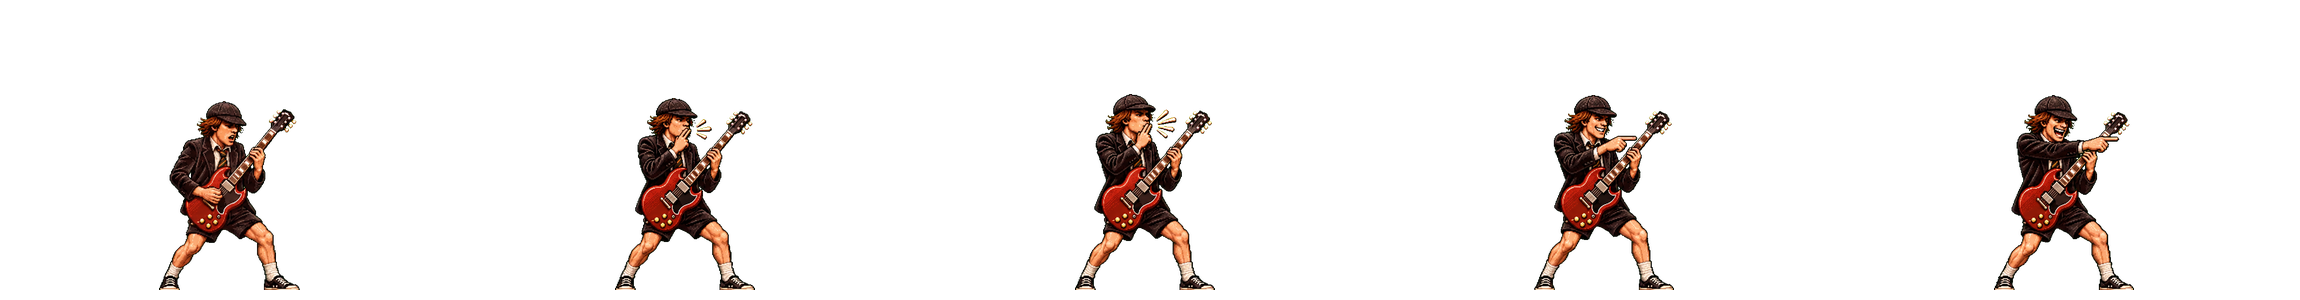
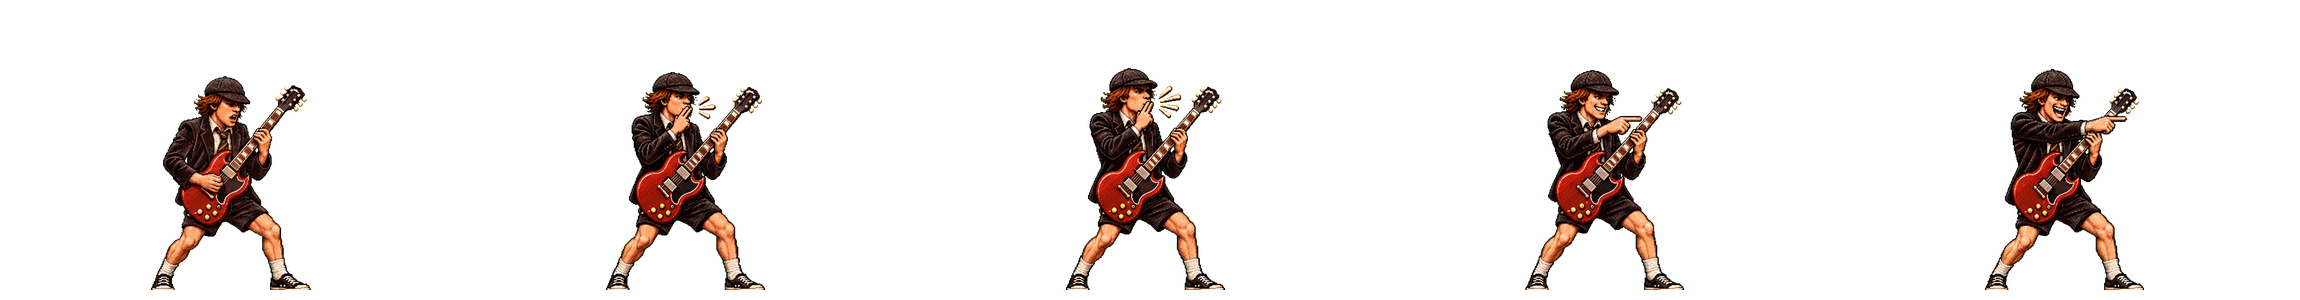
fix: Angus com o mesmo tamanho em todos os golpes e especiais

diff --git a/game.js b/game.js
@@ -608,19 +608,19 @@ function angusCpu(me, op, scene) {
 // ---------------------------------------------------------------------------------------------
 const CHARS = {};
 CHARS.eddie = {
-  name: 'EDDIE', dir: 'eddie', hp: 950, walkF: 3.2, walkB: 2.6, superStage: 'assets/stages/super-eddie.jpg?v=fa89671', // superStage: cena que toma o fundo no super e na vitória
+  name: 'EDDIE', dir: 'eddie', hp: 950, walkF: 3.2, walkB: 2.6, superStage: 'assets/stages/super-eddie.jpg?v=9658bb2', // superStage: cena que toma o fundo no super e na vitória
   anims: EDDIE_ANIMS, moves: EDDIE_MOVES, powers: EDDIE_POWERS, specials: EDDIE_SPECIALS, cpu: eddieCpu,
   jumpkick: JUMPKICK, bigTitle: '5150', blurb: 'Brown Sound',
   stage: 'eddie', // palco da casa (ver STAGES)
 };
 CHARS.slash = {
-  name: 'SLASH', dir: 'slash', hp: 1000, walkF: 3.0, walkB: 2.5, superStage: 'assets/stages/super-slash.jpg?v=fa89671', // superStage: cena que toma o fundo no super e na vitória
+  name: 'SLASH', dir: 'slash', hp: 1000, walkF: 3.0, walkB: 2.5, superStage: 'assets/stages/super-slash.jpg?v=9658bb2', // superStage: cena que toma o fundo no super e na vitória
   anims: SLASH_ANIMS, moves: SLASH_MOVES, powers: SLASH_POWERS, specials: SLASH_SPECIALS, cpu: slashCpu,
   jumpkick: JUMPKICK, bigTitle: 'APPETITE', bigSize: 150, blurb: 'Top Hat',
   stage: 'slash',
 };
 CHARS.zakk = {
-  name: 'ZAKK', dir: 'zakk', hp: 1100, walkF: 2.7, walkB: 2.25, superStage: 'assets/stages/super-zakk.jpg?v=fa89671', // superStage: cena que toma o fundo no super e na vitória
+  name: 'ZAKK', dir: 'zakk', hp: 1100, walkF: 2.7, walkB: 2.25, superStage: 'assets/stages/super-zakk.jpg?v=9658bb2', // superStage: cena que toma o fundo no super e na vitória
   anims: ZAKK_ANIMS, moves: ZAKK_MOVES, powers: ZAKK_POWERS, specials: ZAKK_SPECIALS, cpu: zakkCpu,
   jumpkick: JUMPKICK, bigTitle: 'NO MORE TEARS', bigSize: 95, blurb: 'Black Label',
   stage: 'zakk', vicRate: 28, vicFrames: [0, 1, 2, 4, 5, 6, 7, 8], // sem o quadro 3 (pé no amplificador) e o 9 (braços cruzados)
@@ -628,7 +628,7 @@ CHARS.zakk = {
   // a vitória do Zakk é uma sequência de poses (grito, cerveja, chifrinhos): ~0,5 s cada
 };
 CHARS.vai = {
-  name: 'VAI', dir: 'vai', hp: 900, walkF: 3.5, walkB: 2.9, superStage: 'assets/stages/super-vai.jpg?v=fa89671', // superStage: cena que toma o fundo no super e na vitória
+  name: 'VAI', dir: 'vai', hp: 900, walkF: 3.5, walkB: 2.9, superStage: 'assets/stages/super-vai.jpg?v=9658bb2', // superStage: cena que toma o fundo no super e na vitória
   anims: VAI_ANIMS, moves: VAI_MOVES, powers: VAI_POWERS, specials: VAI_SPECIALS, cpu: vaiCpu,
   jumpkick: JUMPKICK, bigTitle: 'FOR THE LOVE OF GOD', bigSize: 78, blurb: 'Ibanez JEM',
   stage: 'stadium', // palco da casa ainda não existe
@@ -637,7 +637,7 @@ CHARS.vai = {
 // o Angus está em stand by (folhas incompletas, nada recortado em assets/angus): só entra no elenco quando ANGUS_READY for true
 const ANGUS_READY = true;
 if (ANGUS_READY) CHARS.angus = {
-  name: 'ANGUS', dir: 'angus', hp: 950, walkF: 3.7, walkB: 3.0, superStage: 'assets/stages/super-angus.jpg?v=fa89671', // o cenário HIGH VOLTAGE cercado pela bateria de canhões (cena do super e da vitória)
+  name: 'ANGUS', dir: 'angus', hp: 950, walkF: 3.7, walkB: 3.0, superStage: 'assets/stages/super-angus.jpg?v=9658bb2', // o cenário HIGH VOLTAGE cercado pela bateria de canhões (cena do super e da vitória)
   anims: ANGUS_ANIMS, moves: ANGUS_MOVES, powers: ANGUS_POWERS, specials: ANGUS_SPECIALS, cpu: angusCpu,
   jumpkick: JUMPKICK, bigTitle: 'FOR THOSE ABOUT TO ROCK', bigSize: 70, blurb: 'Gibson SG',
   stage: 'stadium', // palco da casa ainda não existe
@@ -654,27 +654,27 @@ const BIRA_HIT = { dmg: 30, hitstun: 50, blockstun: 50, push: 0, chip: 30, word:
 // PALCOS (escolhidos depois dos lutadores). Palco sem imagem não aparece na escolha.
 // Na vitória, qualquer palco dá lugar ao Templo dos Deuses da Guitarra (TEMPLE), com os holofotes no vencedor.
 const STAGES = [
-  { id: 'eddie',    name: "EDDIE'S STAGE",  tag: 'Arena rock',         file: 'assets/stages/palco-eddie.jpg?v=fa89671' },
-  { id: 'slash',    name: 'SUNSET STRIP',   tag: 'Rock bar',           file: 'assets/stages/palco-slash.jpg?v=fa89671' },
-  { id: 'stairway', name: 'STAIRWAY HILL',  tag: 'Airship at dusk',    file: 'assets/stages/cenario-dirigivel.jpg?v=fa89671' },
-  { id: 'pig',      name: 'POWER STATION',  tag: 'Flying pig',         file: 'assets/stages/cenario-usina-porco.jpg?v=fa89671' },
-  { id: 'rooftop',  name: 'LONDON ROOFTOP', tag: 'The last gig',       file: 'assets/stages/cenario-telhado-londres.jpg?v=fa89671' },
-  { id: 'voltage',  name: 'HIGH VOLTAGE',   tag: 'Thunder road',       file: 'assets/stages/cenario-alta-voltagem.jpg?v=fa89671' },
-  { id: 'stadium',  name: "STADIUM '85",    tag: 'Live for the world', file: 'assets/stages/cenario-estadio.jpg?v=fa89671' },
+  { id: 'eddie',    name: "EDDIE'S STAGE",  tag: 'Arena rock',         file: 'assets/stages/palco-eddie.jpg?v=9658bb2' },
+  { id: 'slash',    name: 'SUNSET STRIP',   tag: 'Rock bar',           file: 'assets/stages/palco-slash.jpg?v=9658bb2' },
+  { id: 'stairway', name: 'STAIRWAY HILL',  tag: 'Airship at dusk',    file: 'assets/stages/cenario-dirigivel.jpg?v=9658bb2' },
+  { id: 'pig',      name: 'POWER STATION',  tag: 'Flying pig',         file: 'assets/stages/cenario-usina-porco.jpg?v=9658bb2' },
+  { id: 'rooftop',  name: 'LONDON ROOFTOP', tag: 'The last gig',       file: 'assets/stages/cenario-telhado-londres.jpg?v=9658bb2' },
+  { id: 'voltage',  name: 'HIGH VOLTAGE',   tag: 'Thunder road',       file: 'assets/stages/cenario-alta-voltagem.jpg?v=9658bb2' },
+  { id: 'stadium',  name: "STADIUM '85",    tag: 'Live for the world', file: 'assets/stages/cenario-estadio.jpg?v=9658bb2' },
   // 18/11/2026 (pedido do usuário: Rock in Rio, um presídio e outros engraçados e temáticos); só clima, sem nome de festival ou marca
-  { id: 'rio',      name: 'CITY OF ROCK',   tag: 'Rio festival',       file: 'assets/stages/cenario-rio.jpg?v=fa89671' },
-  { id: 'prison',   name: 'PRISON YARD',    tag: 'Jailhouse gig',      file: 'assets/stages/cenario-prison.jpg?v=fa89671' },
-  { id: 'bira',     name: 'OPEN BAR',       tag: "Rock n' Bira",       file: 'assets/stages/cenario-bira.jpg?v=fa89671' },
-  { id: 'school',   name: 'SCHOOL GYM',     tag: 'Talent show',        file: 'assets/stages/cenario-school.jpg?v=fa89671' },
-  { id: 'party',    name: 'BIRTHDAY BASH',  tag: 'Kids party',         file: 'assets/stages/cenario-party.jpg?v=fa89671' },
+  { id: 'rio',      name: 'CITY OF ROCK',   tag: 'Rio festival',       file: 'assets/stages/cenario-rio.jpg?v=9658bb2' },
+  { id: 'prison',   name: 'PRISON YARD',    tag: 'Jailhouse gig',      file: 'assets/stages/cenario-prison.jpg?v=9658bb2' },
+  { id: 'bira',     name: 'OPEN BAR',       tag: "Rock n' Bira",       file: 'assets/stages/cenario-bira.jpg?v=9658bb2' },
+  { id: 'school',   name: 'SCHOOL GYM',     tag: 'Talent show',        file: 'assets/stages/cenario-school.jpg?v=9658bb2' },
+  { id: 'party',    name: 'BIRTHDAY BASH',  tag: 'Kids party',         file: 'assets/stages/cenario-party.jpg?v=9658bb2' },
   // famosos no fundo (caricaturas, pedido do usuário em 18/11/2026); os palcos com bandas tocando saíram (o usuário achou horríveis e desproporcionais)
-  { id: 'summit',   name: 'THE SUMMIT',     tag: 'World leaders',      file: 'assets/stages/cenario-summit.jpg?v=fa89671' },
-  { id: 'keynote',  name: 'GPU KEYNOTE',    tag: 'Tech launch',        file: 'assets/stages/cenario-keynote.jpg?v=fa89671' },
-  { id: 'crossroads', name: 'CROSSROADS',   tag: 'Sign here',          file: 'assets/stages/cenario-crossroads.jpg?v=fa89671' },
+  { id: 'summit',   name: 'THE SUMMIT',     tag: 'World leaders',      file: 'assets/stages/cenario-summit.jpg?v=9658bb2' },
+  { id: 'keynote',  name: 'GPU KEYNOTE',    tag: 'Tech launch',        file: 'assets/stages/cenario-keynote.jpg?v=9658bb2' },
+  { id: 'crossroads', name: 'CROSSROADS',   tag: 'Sign here',          file: 'assets/stages/cenario-crossroads.jpg?v=9658bb2' },
 ];
 const stageById = id => STAGES.find(st => st.id === id);
 // templo da vitória: imagem e posição (em 960x540) e cor dos holofotes do teto
-const TEMPLE = { file: 'assets/stages/templo-vitoria.jpg?v=fa89671', lamps: [[106, 30, 0xffd27a], [184, 36, 0xffe9a8], [781, 36, 0xffe9a8], [845, 32, 0xffd27a]] };
+const TEMPLE = { file: 'assets/stages/templo-vitoria.jpg?v=9658bb2', lamps: [[106, 30, 0xffd27a], [184, 36, 0xffe9a8], [781, 36, 0xffe9a8], [845, 32, 0xffd27a]] };
 
 // reações cômicas (folha react do lutador que apanhou): quadros e duração em quadros de jogo; quem está na piada fica invencível
 const GAGS = {
@@ -801,10 +801,10 @@ class Boot extends Phaser.Scene {
     this.load.image('stage', STAGES[0].file); // fundo da tela de escolha
     this.load.image('temple', TEMPLE.file);
     // capa: logo dourado do Rock n' Bira e as canecas de chopp do brinde
-    this.load.image('logo_bira', `assets/ui/logo-rocknbira-gold.png?v=fa89671`);
+    this.load.image('logo_bira', `assets/ui/logo-rocknbira-gold.png?v=9658bb2`);
     this.load.image('title_bg', `assets/ui/festa.jpg`); // festa no bar, fundo da capa
-    this.load.spritesheet('mug', `assets/ui/mug.png?v=fa89671`, { frameWidth: 300, frameHeight: 300 });
-    this.load.spritesheet('splash', `assets/ui/splash.png?v=fa89671`, { frameWidth: 300, frameHeight: 300 });
+    this.load.spritesheet('mug', `assets/ui/mug.png?v=9658bb2`, { frameWidth: 300, frameHeight: 300 });
+    this.load.spritesheet('splash', `assets/ui/splash.png?v=9658bb2`, { frameWidth: 300, frameHeight: 300 });
     for (const st of STAGES) {
       this.load.image(`stage_${st.id}`, st.file);
     }
@@ -815,7 +815,7 @@ class Boot extends Phaser.Scene {
       for (const [n, count] of Object.entries(c.anims)) {
         const key = `${c.dir}_${n}`;
         FRAMES[key] = count;
-        this.load.spritesheet(key, `assets/${c.dir}/${n}.png?v=fa89671`, { frameWidth: FW, frameHeight: FH });
+        this.load.spritesheet(key, `assets/${c.dir}/${n}.png?v=9658bb2`, { frameWidth: FW, frameHeight: FH });
       }
     }
   }

diff --git a/index.html b/index.html
@@ -194,5 +194,5 @@ kbd{font-family:var(--px);font-size:10px;background:#2a1a3a;border:1px solid #4a
 })();
 </script>
 <script src="https://cdnjs.cloudflare.com/ajax/libs/phaser/3.80.1/phaser.min.js"></script>
-<script src="game.js?v=fa89671"></script>
+<script src="game.js?v=9658bb2"></script>
 </html>
